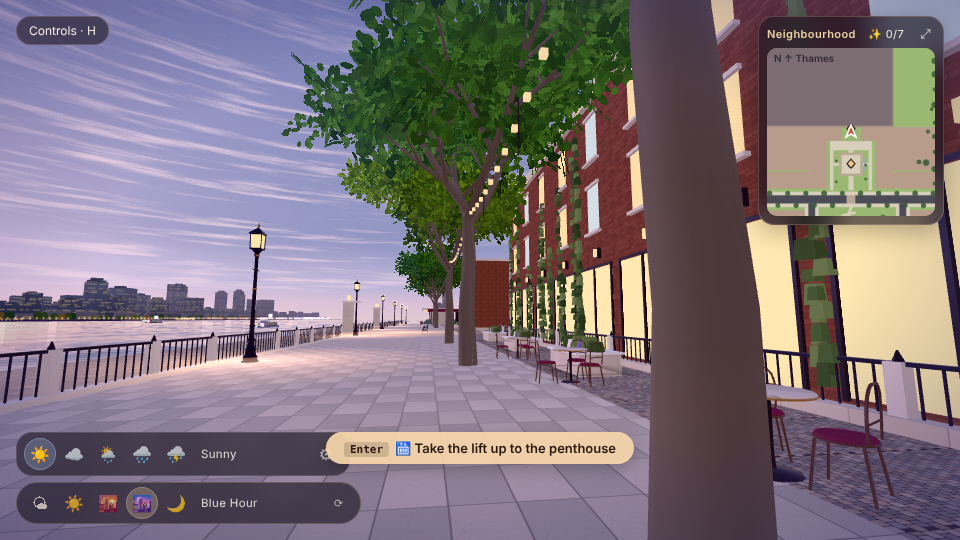
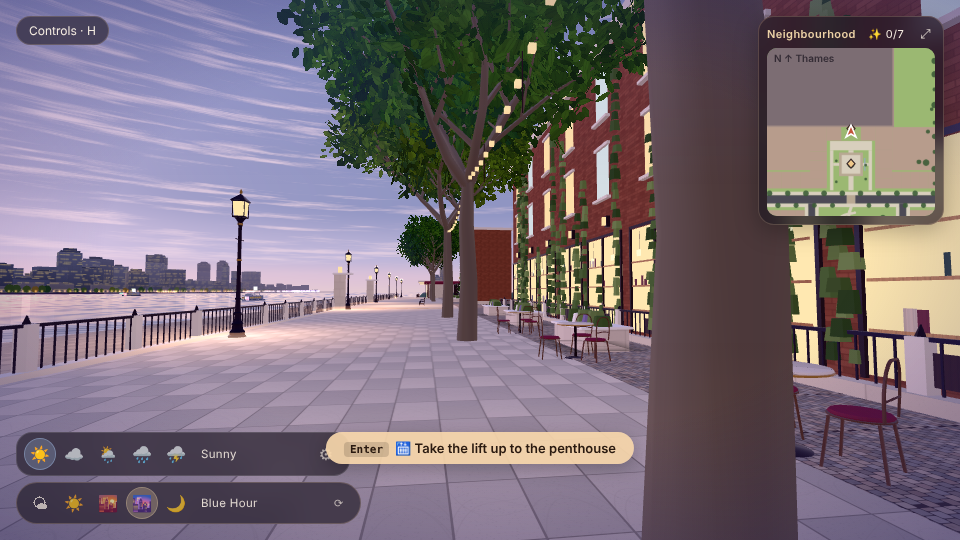
s15: interior depth evidence
Claude-Session: https://claude.ai/code/session_017ZtboRbFUCo4FCo9fUW3pH

diff --git a/docs/bible/S15_BENCHMARK.md b/docs/bible/S15_BENCHMARK.md
@@ -13,7 +13,7 @@ Evidence: `evidence/s15_riverside_4way.jpg` (BEFORE p.65 / TARGET p.66 / LOCALHO
 | M2 benchmark | not run (owner) |
 
 ## Discrepancies vs TARGET (p.66)
-1. Shopfront glass is a flat cream plane: no interior depth, mullions only, no warm interior props.
+1. Shopfront glass now has faux interiors (shelving bands, books, pendants, table silhouettes) behind the glow plane — reads as depth only faintly; real modelled interiors still open.
 2. Tree canopies still sparser than the dense overhead canopy in the target; fairy-light swags and wall lanterns now integrated (glow geometry, no extra real lights).
 3. Burgundy-canopied glass pavilion and terrace seating now **integrated** (evidence: s15_pavilion_bluehour.png); seating now uses the Blender-made bistro tables and bentwood chairs; canopy densified (15 cards/tip); still missing hedges between trees.
 4. Ivy now vine strands of small clumps (reads as climbing ivy); still prisms, not leaf cards.
